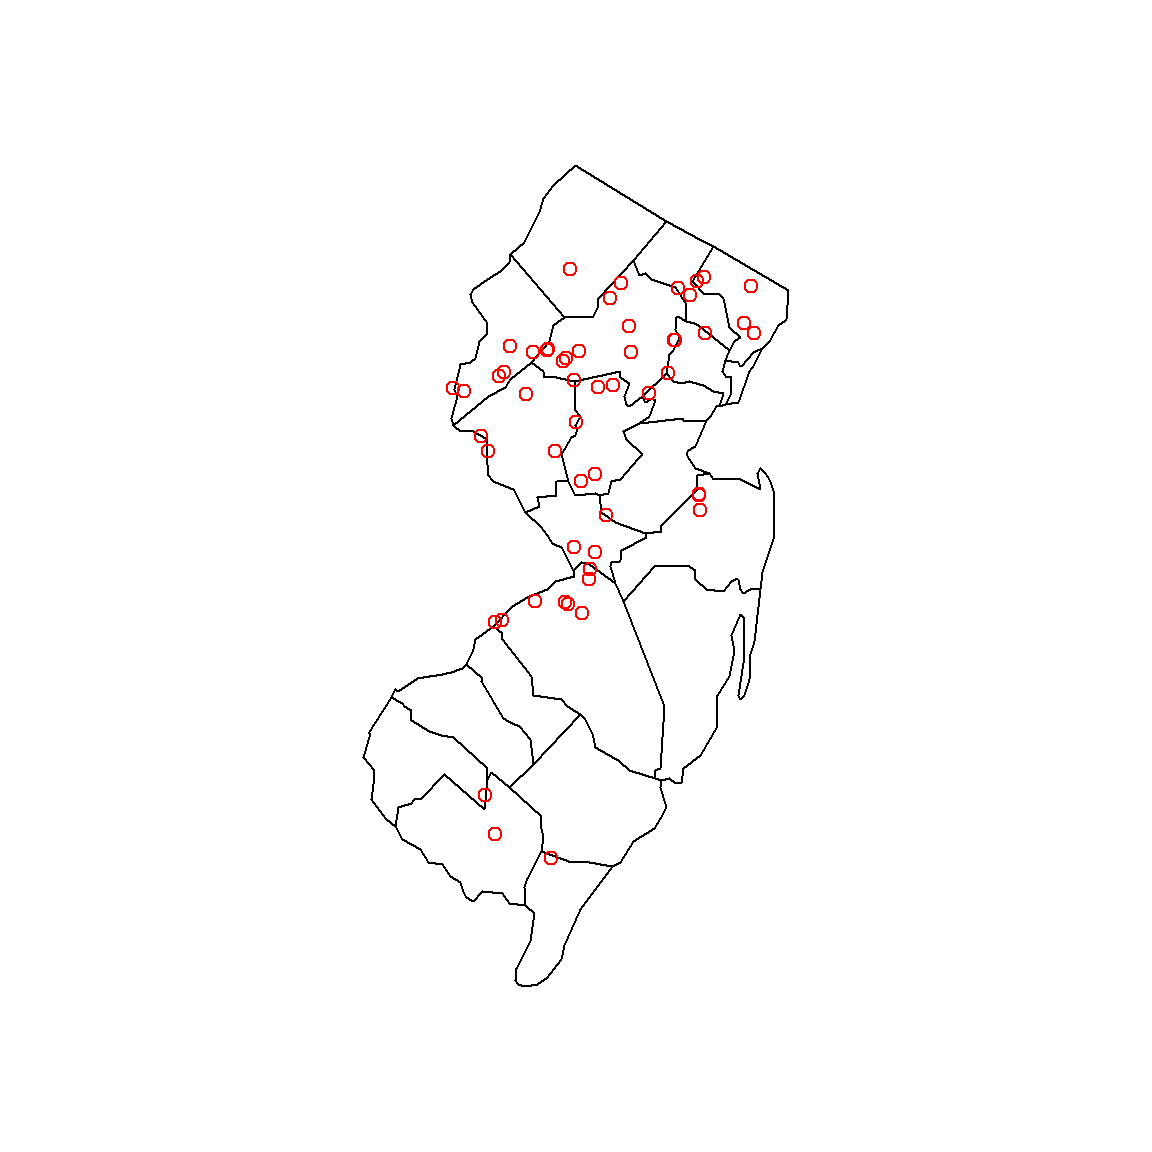
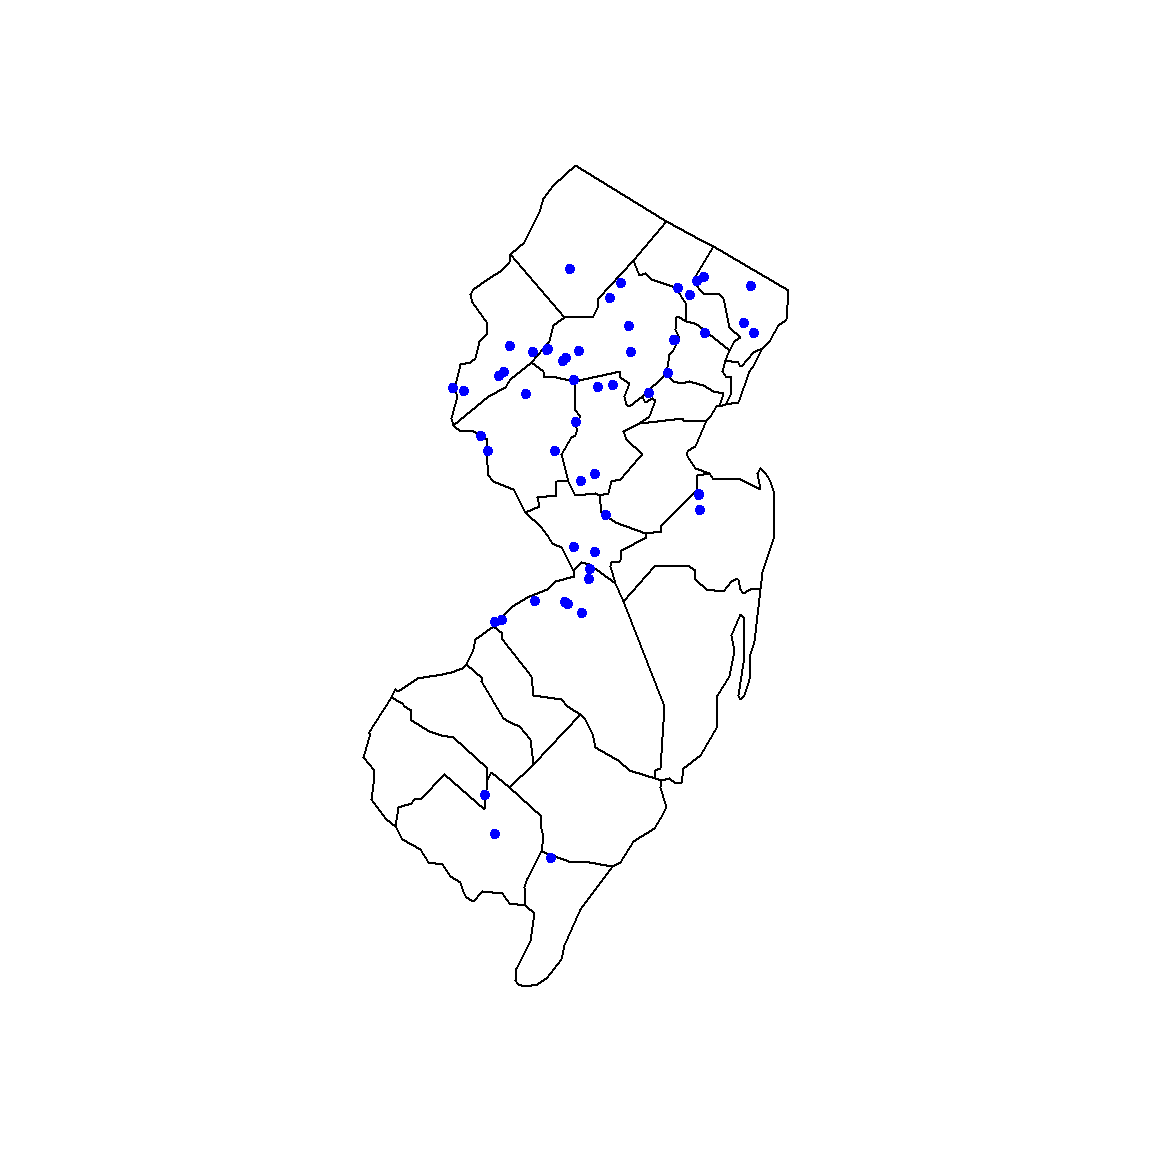
item_get_wfs note about it not really working

diff --git a/content/usgs-packages/sbtools_Get.md b/content/usgs-packages/sbtools_Get.md
@@ -240,7 +240,7 @@ names(ex_id_item)
 Web feature services to visualize spatial data
 ----------------------------------------------
 
-This function allows you to pull down web feature services (WFS) data from ScienceBase. Note that this is not the most robust function. The developers thought this could be a cool feature, but didn't want to invest too much time if there wouldn't be demand. If you'd use it a lot, visit the [`sbtools` GitHub page](https://github.com/USGS-R/sbtools/issues) and let the developers know through a new issue or "thumbs-up" an existing, related issue.
+This function allows you to pull down web feature services (WFS) data from ScienceBase. Note that this is not the most robust function. The developers thought this could be a cool feature, but didn't want to invest too much time if there wouldn't be demand. If you'd use it a lot, visit the [`sbtools` GitHub page](https://github.com/USGS-R/sbtools/issues) and let the developers know through a new issue or "thumbs-up" an existing, related issue. A current known issue is that most queries return empty lists, below is one of the few examples that does work.
 
 When this function does work, you can use the results to create a map of the data in R. Here's a simple example using the R package `maps`. The item we will use as an example contains low flow estimations for New Jersey. We can map the sites used in the study.
 
@@ -251,7 +251,7 @@ nj_wfs <- item_get_wfs("58cbe556e4b0849ce97dcd31")
     ## Loading required namespace: rgdal
 
     ## OGR data source with driver: ESRI Shapefile 
-    ## Source: "C:\Users\lcarr\AppData\Local\Temp\1\RtmpkDU3Rn/file27603ff95b43", layer: "NJ_low_flow_estimates_2016"
+    ## Source: "C:\Users\lcarr\AppData\Local\Temp\1\RtmpKcjtBQ/filea9c1cd25e8f", layer: "NJ_low_flow_estimates_2016"
     ## with 62 features
     ## It has 18 fields
 
@@ -266,7 +266,7 @@ names(nj_wfs)
 
 ``` r
 maps::map("county", "new jersey")
-points(nj_wfs$longitude, nj_wfs$latitude, col="red")
+sp::plot(nj_wfs, col="blue", pch=20, add=TRUE)
 ```
 
 <img src='../static/sbtools-get/sbtools-wfs-1.png'/ title='Map of sbitem WFS data sites'/ alt='Sites from a ScienceBase item's WFS data on a map of New Jersey'/>
